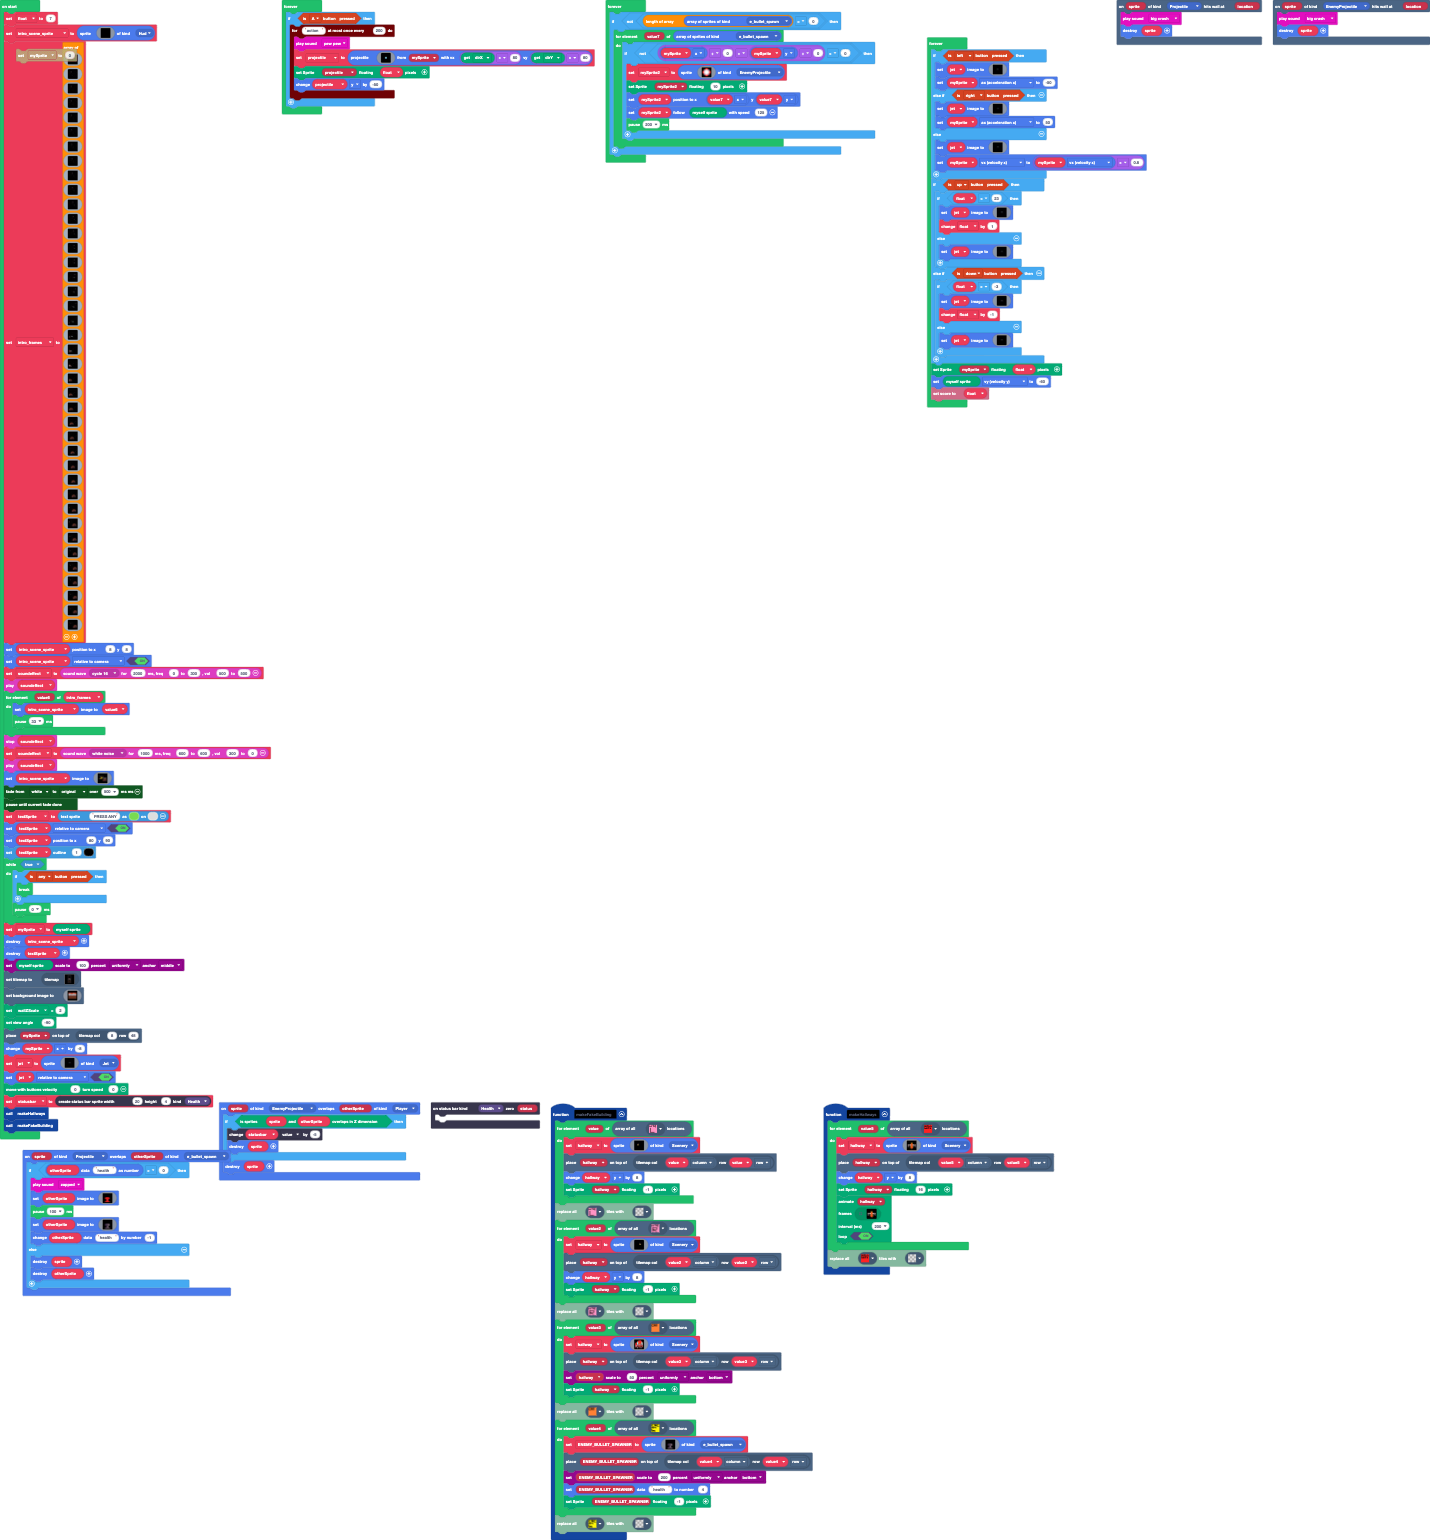
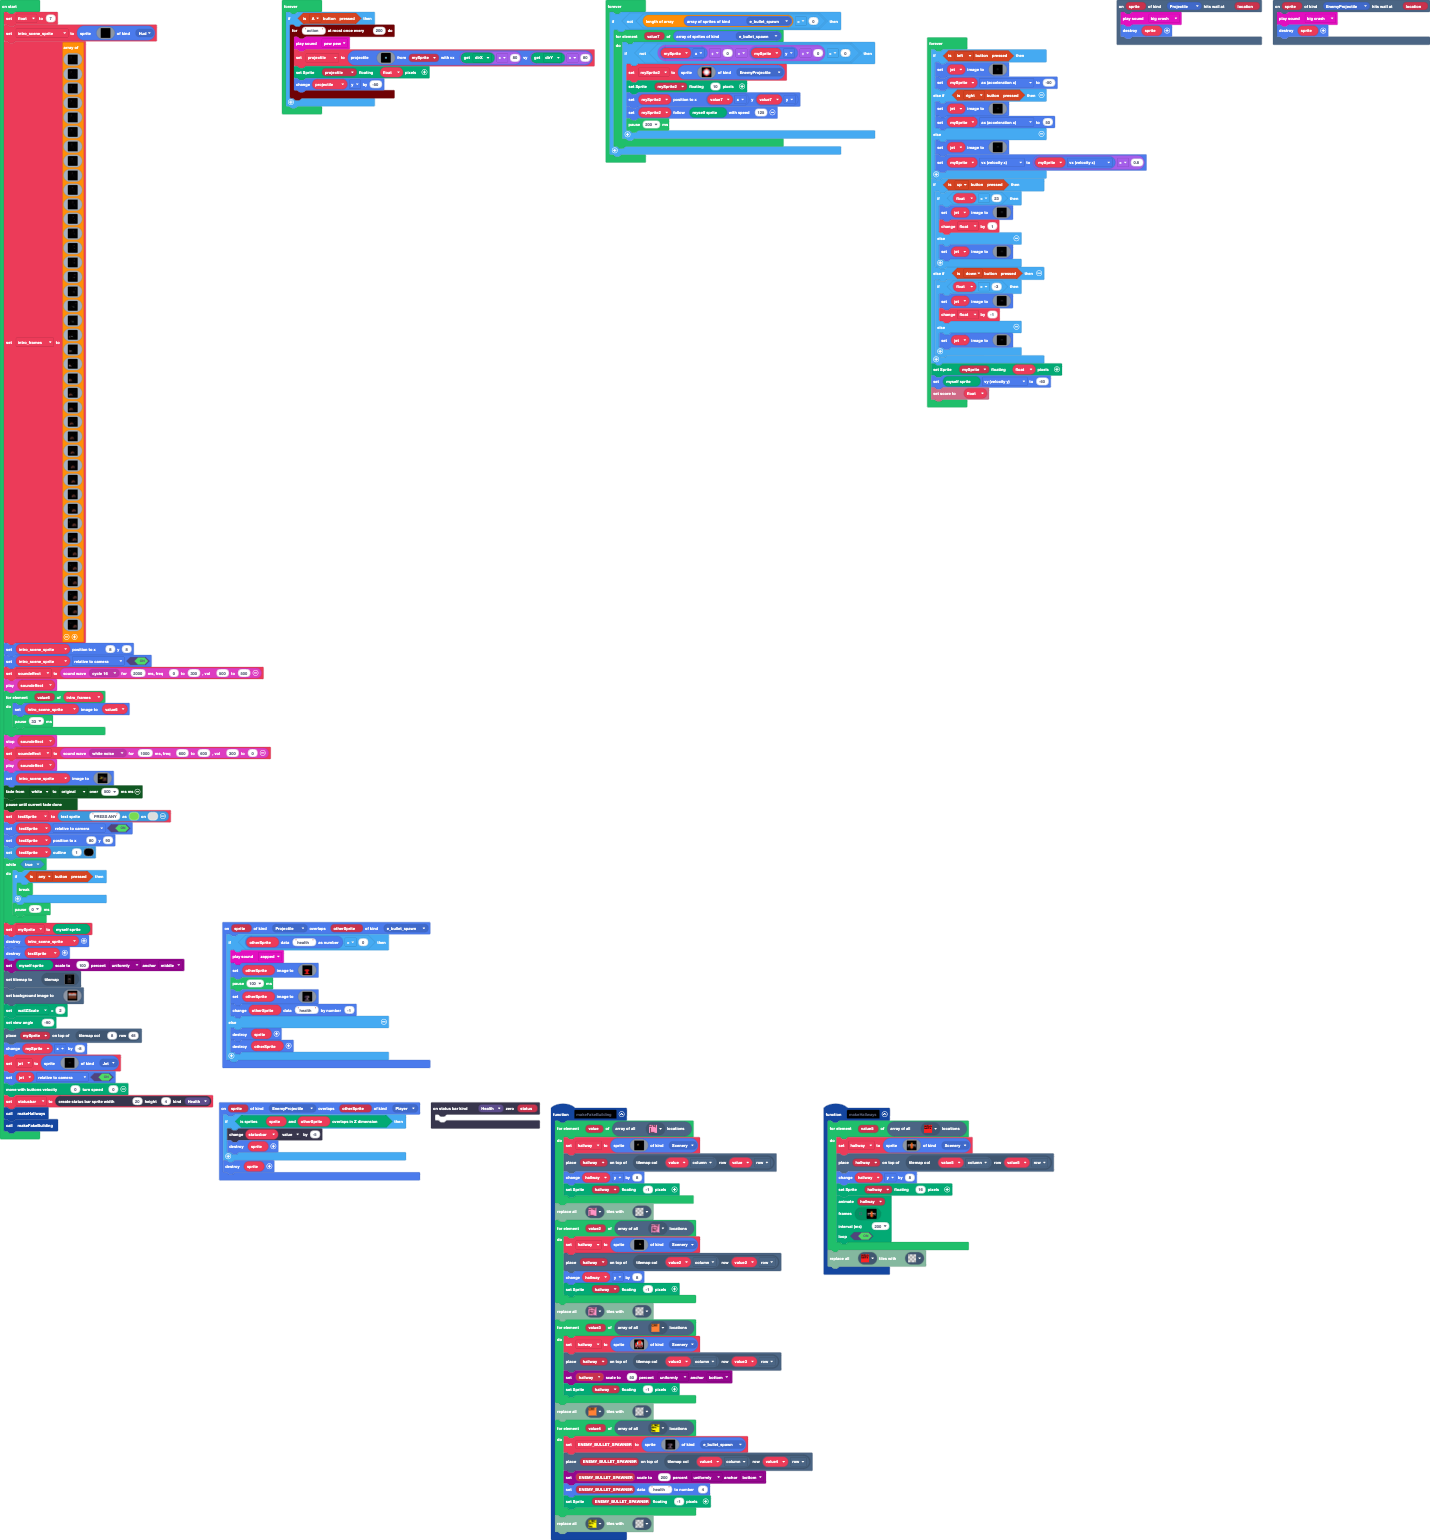
Update main.blocks, tilemap.g.jres, tilemap.g.ts

Changed region(s): [[0.1538, 0.5922, 0.3077, 0.7169], [0.0, 0.7481, 0.1538, 0.8416], [0.0, 0.0312, 0.0615, 0.0623]]

diff --git a/tilemap.g.ts b/tilemap.g.ts
@@ -224,6 +224,25 @@ namespace myTiles {
 . . . . . . . . . . . . . . . . . . . . 
 . . . . . . . . . . . . . . . . . . . . 
 `, [myTiles.transparency8,sprites.castle.tileGrass2,myTiles.tile16], TileScale.Eight);
+            case "level9":
+            case "level9":return tiles.createTilemap(hex`1000100000000000000000000000000000000000000000000000000000000000000000000000000000000000000000000000000000000000000000000000000000000000000000000000000000000000000000000000000000000000000000000000000000000000000000000000000000000000000000000000000000000000000000000000000000000000000000000000000000000000000000000000000000000000000000000000000000000000000000000000000000000000000000000000000000000000000000000000000000000000000000000000000000000000000000000000000000000000000000000000000000000000000000000000000000000000`, img`
+. . . . . . . . . . . . . . . . 
+. . . . . . . . . . . . . . . . 
+. . . . . . . . . . . . . . . . 
+. . . . . . . . . . . . . . . . 
+. . . . . . . . . . . . . . . . 
+. . . . . . . . . . . . . . . . 
+. . . . . . . . . . . . . . . . 
+. . . . . . . . . . . . . . . . 
+. . . . . . . . . . . . . . . . 
+. . . . . . . . . . . . . . . . 
+. . . . . . . . . . . . . . . . 
+. . . . . . . . . . . . . . . . 
+. . . . . . . . . . . . . . . . 
+. . . . . . . . . . . . . . . . 
+. . . . . . . . . . . . . . . . 
+. . . . . . . . . . . . . . . . 
+`, [myTiles.transparency16], TileScale.Sixteen);
         }
         return null;
     })
